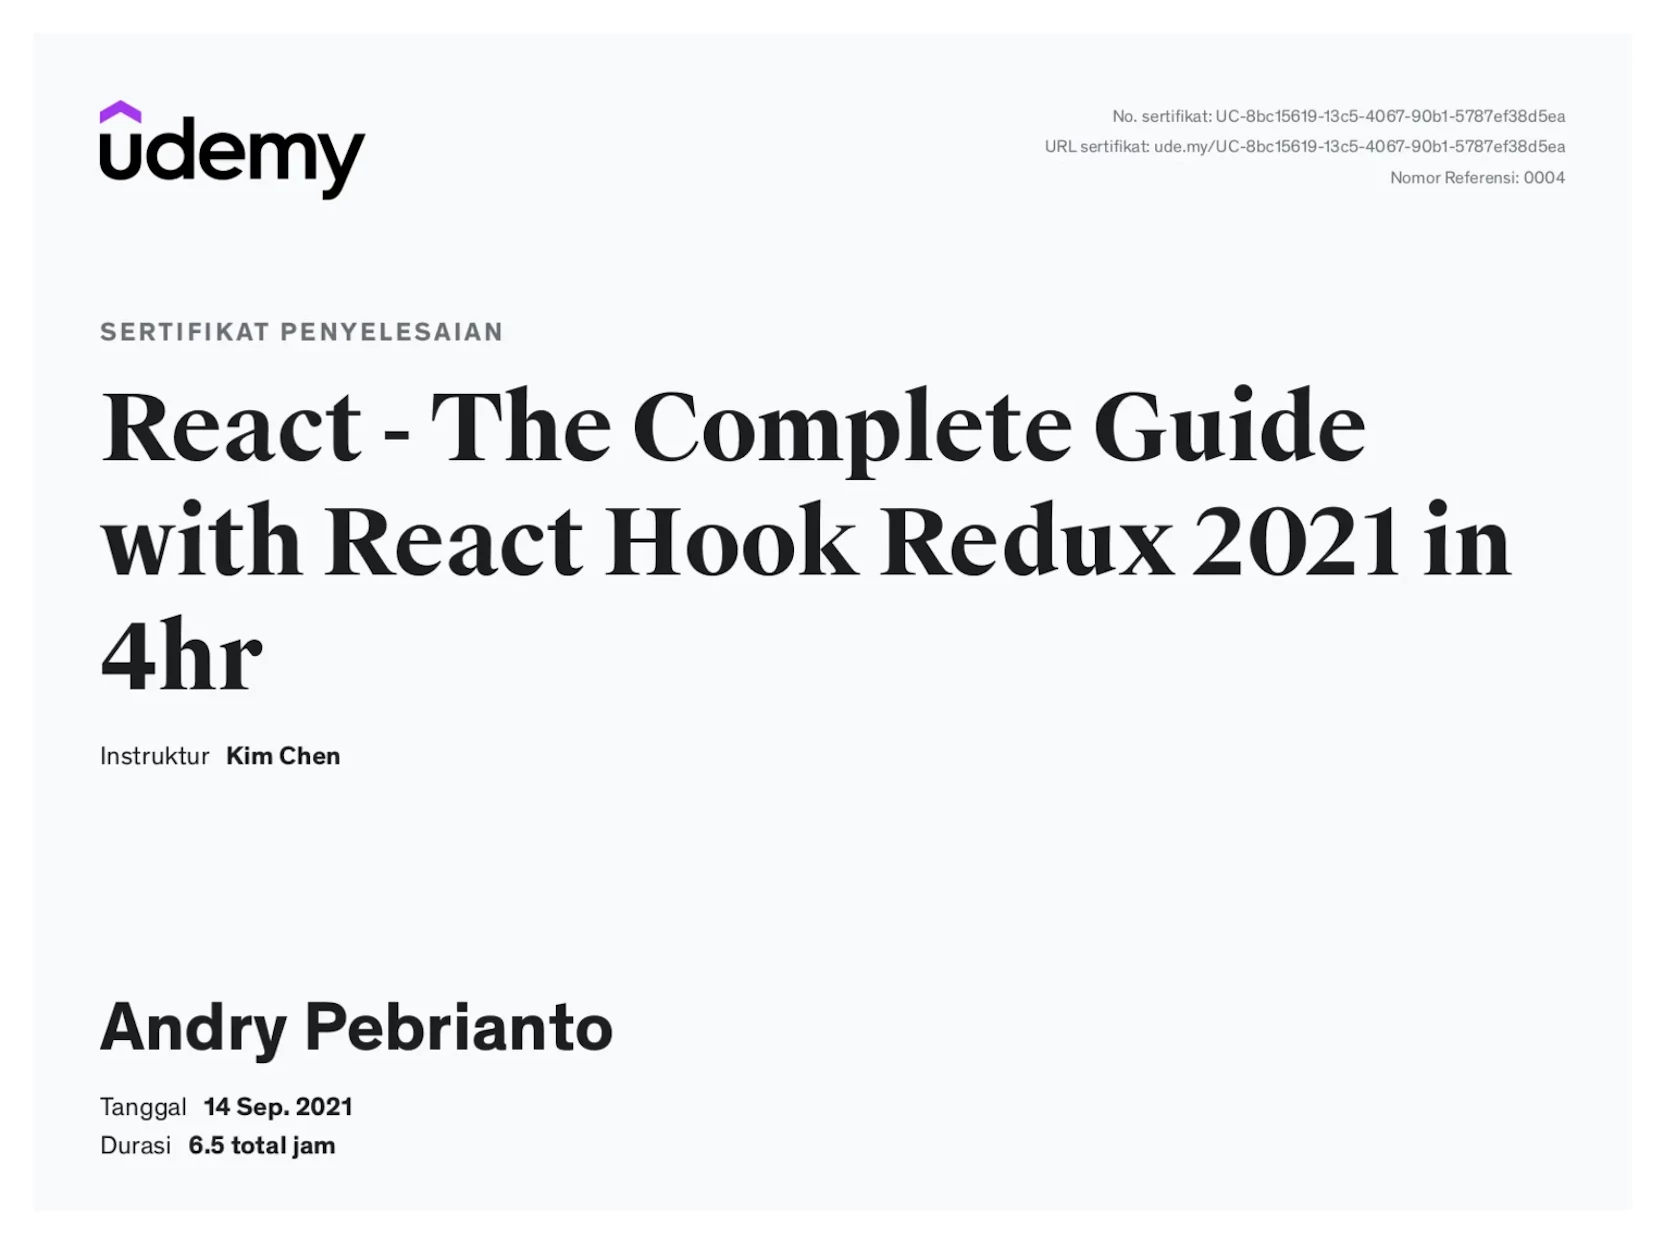
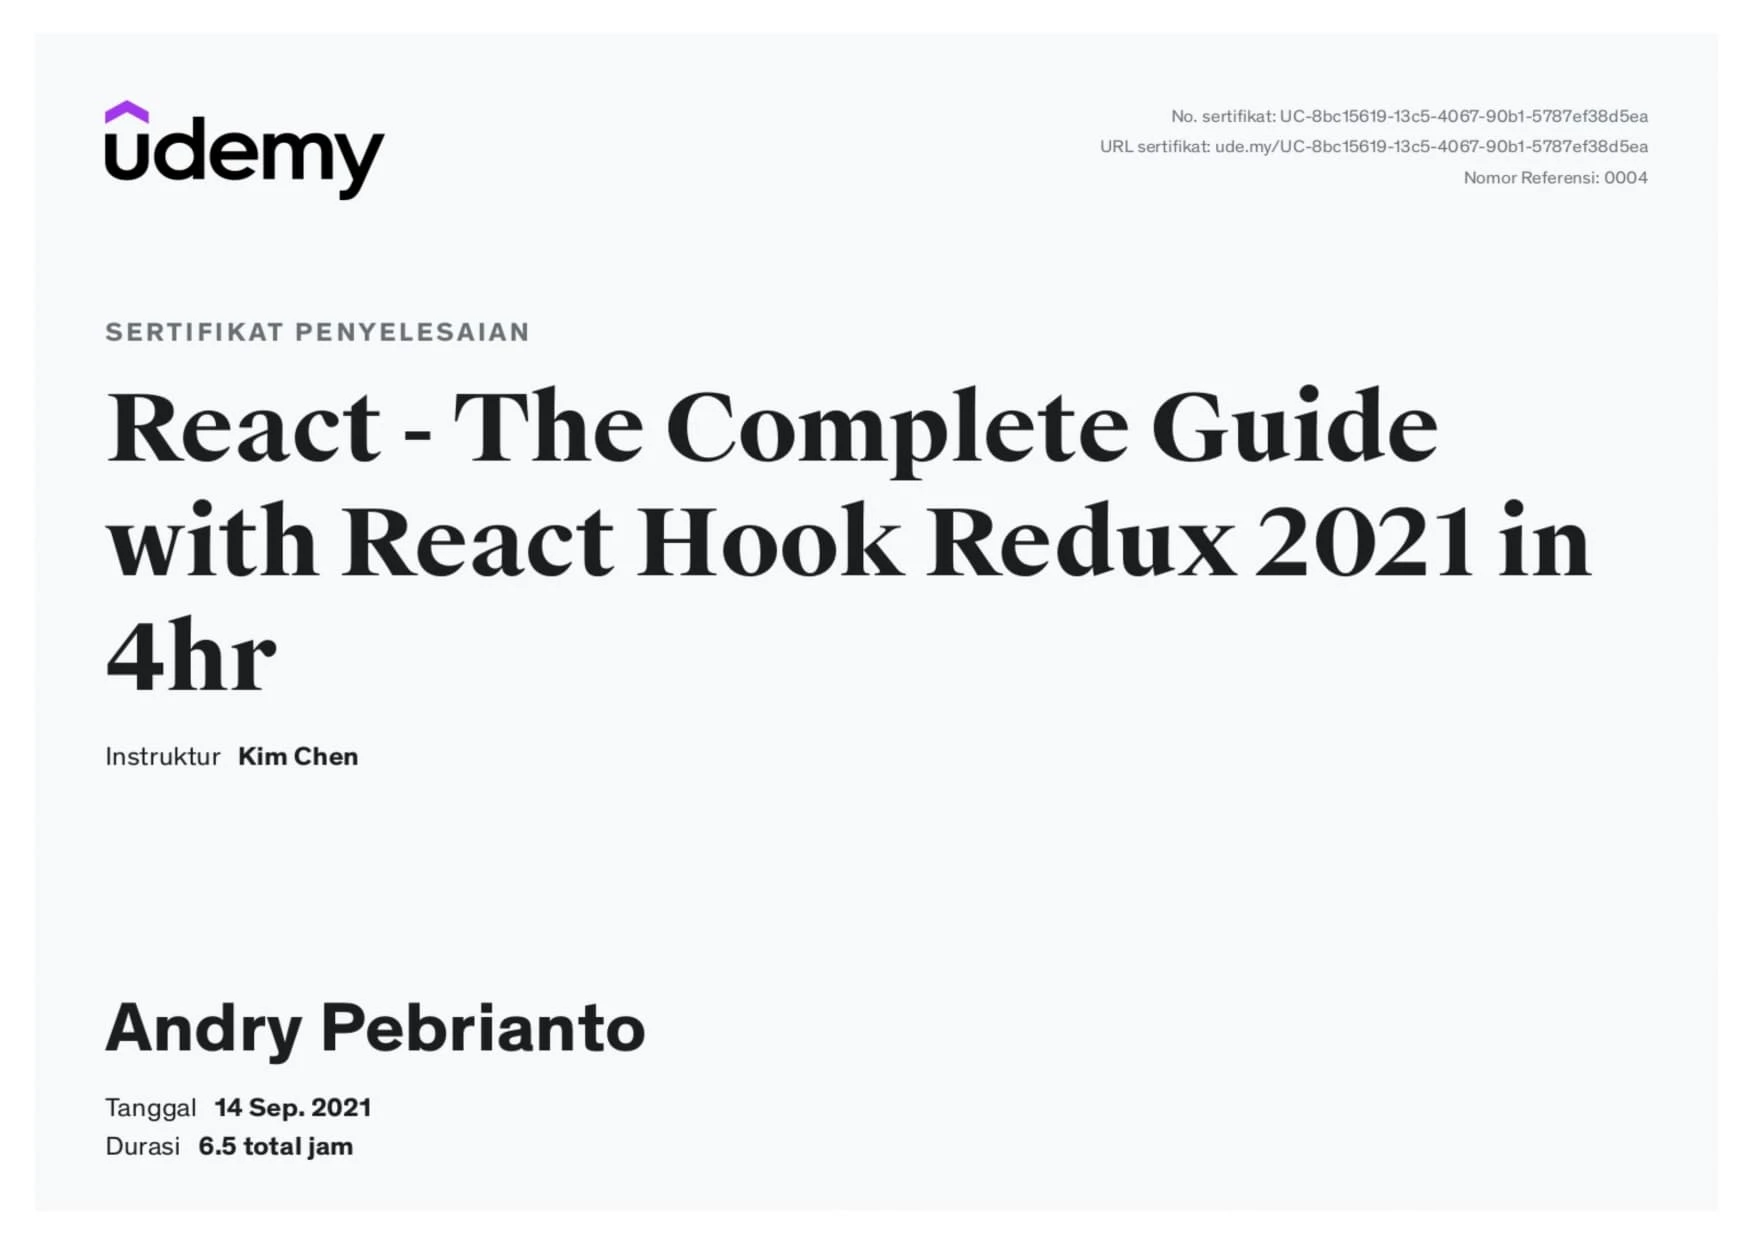
Change resolution for udemy-react image

Changed region(s): [[0.6246, 0.4294, 0.6559, 0.46], [0.4685, 0.4294, 0.4997, 0.46]]

diff --git a/index.html b/index.html
@@ -249,7 +249,7 @@
 
     <!-- Certificates -->
     <section id="certificates" class="mb-5 pure pure-light">
-      <div class="container-lg py-5 border border-danger">
+      <div class="container-lg py-5 border">
         <h2 class="fw-bold text-center mb-3">My Certificates</h2>
         <div id="carouselExampleIndicators" class="carousel slide" data-bs-ride="carousel">
           <div class="carousel-indicators">
